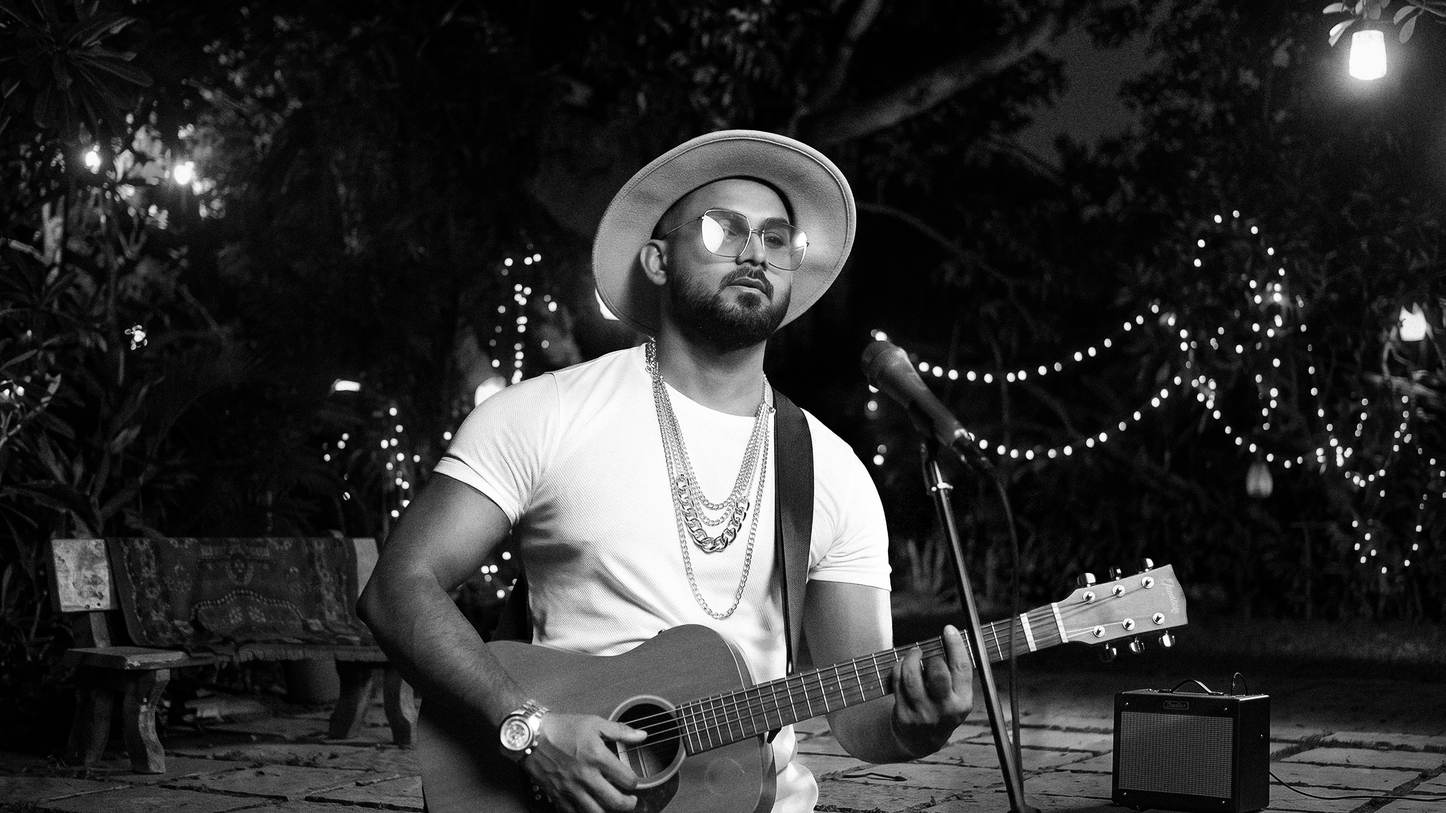
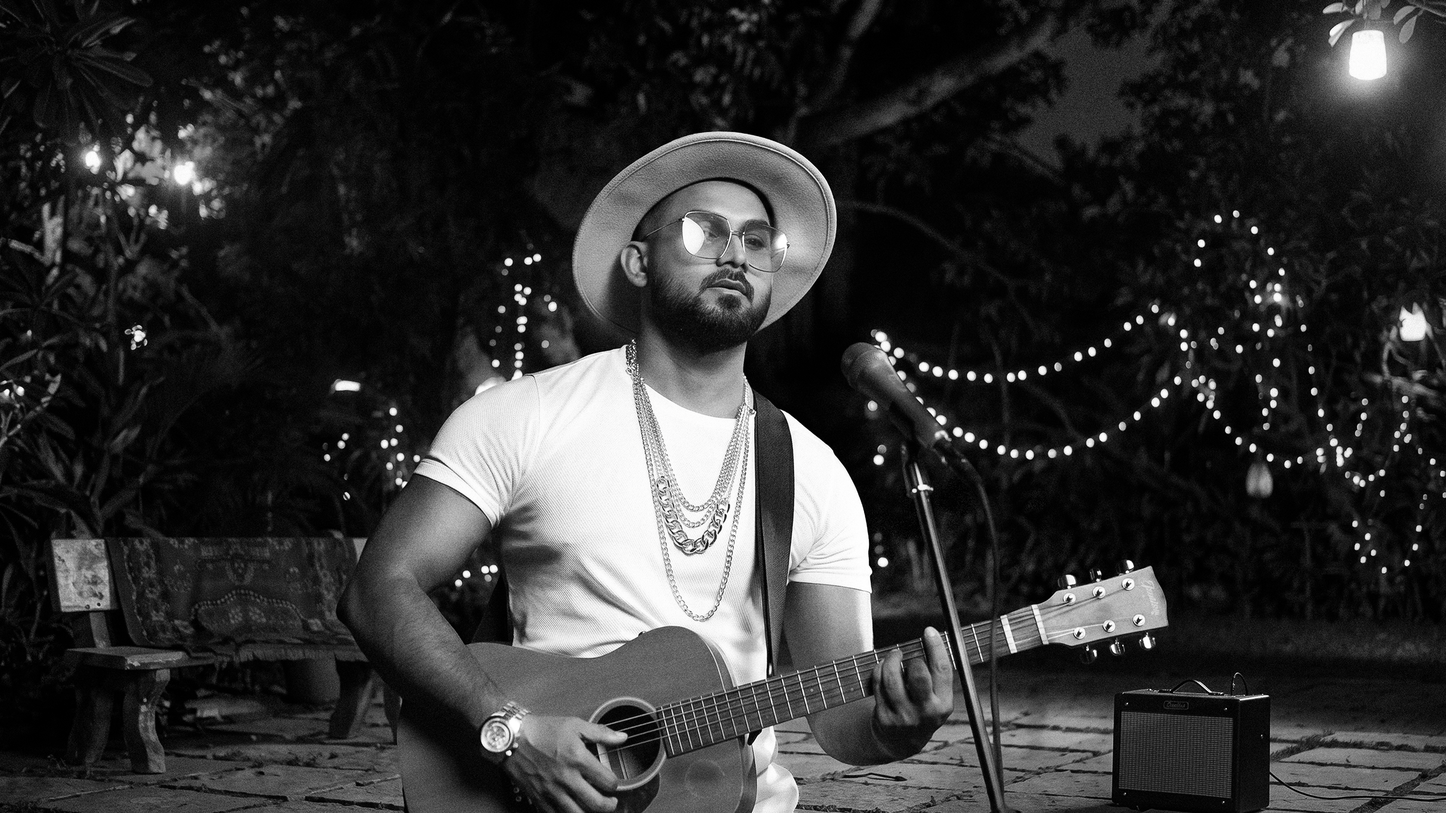
feat: add HeroSlider component with animated artist image transitions and static assets

Changed region(s): [[0.2188, 0.1556, 0.8438, 1.0], [0.875, 0.9022, 0.9062, 0.9644]]

diff --git a/src/components/ui/HeroSlider.tsx b/src/components/ui/HeroSlider.tsx
@@ -34,7 +34,7 @@ const SLIDES: SlideData[] = [
   {
     id: 3,
     name: "Dilu Beats",
-    image: "/Artists/Dilu_Beats.png",
+    image: "/Artists/Dilu Beats.png",
   },
   {
     id: 4,
@@ -284,16 +284,18 @@ export const HeroSlider: React.FC = () => {
         {SLIDES.map((slide, index) => (
           <SwiperSlide key={`${slide.id}-${index}`} className="relative w-full h-full">
             {/* Grayscale Background Image */}
-            <div className="absolute inset-0 w-full h-full overflow-hidden">
-              <Image
-                src={slide.image}
-                alt={slide.name}
-                fill
-                priority={index === 0}
-                className={`object-cover filter grayscale slide-image slide-image-${index}`}
-                style={{ objectPosition: "center" }}
-                sizes="100vw"
-              />
+            <div className="absolute inset-0 flex items-center justify-center overflow-hidden">
+              <div className="relative w-full aspect-[16/9] overflow-hidden">
+                <Image
+                  src={slide.image}
+                  alt={slide.name}
+                  fill
+                  priority={index === 0}
+                  className={`object-cover filter grayscale slide-image slide-image-${index}`}
+                  style={{ objectPosition: "center" }}
+                  sizes="100vw"
+                />
+              </div>
             </div>
 
             {/* Gradient Overlays */}
